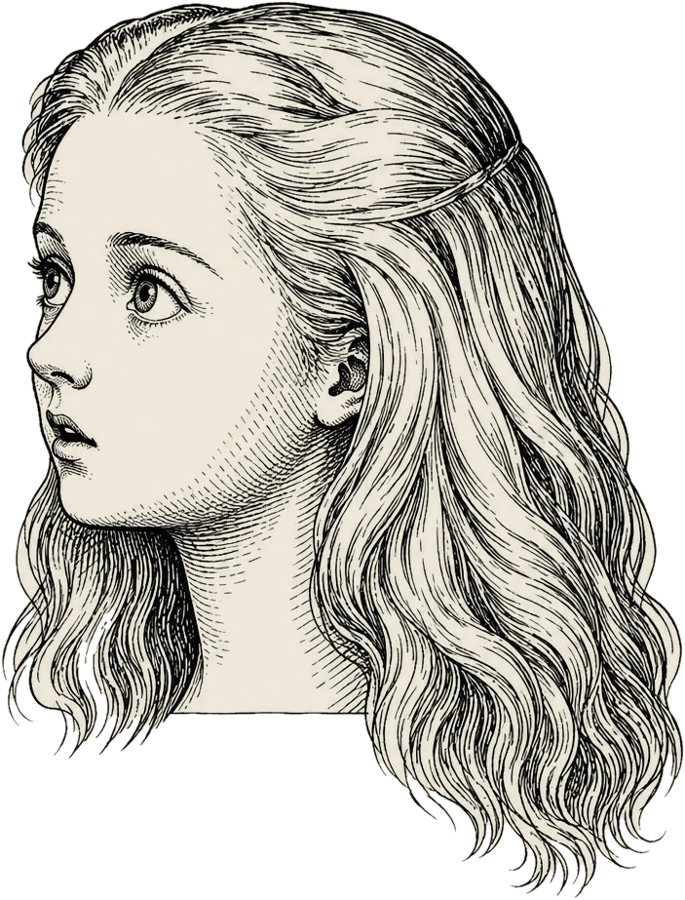
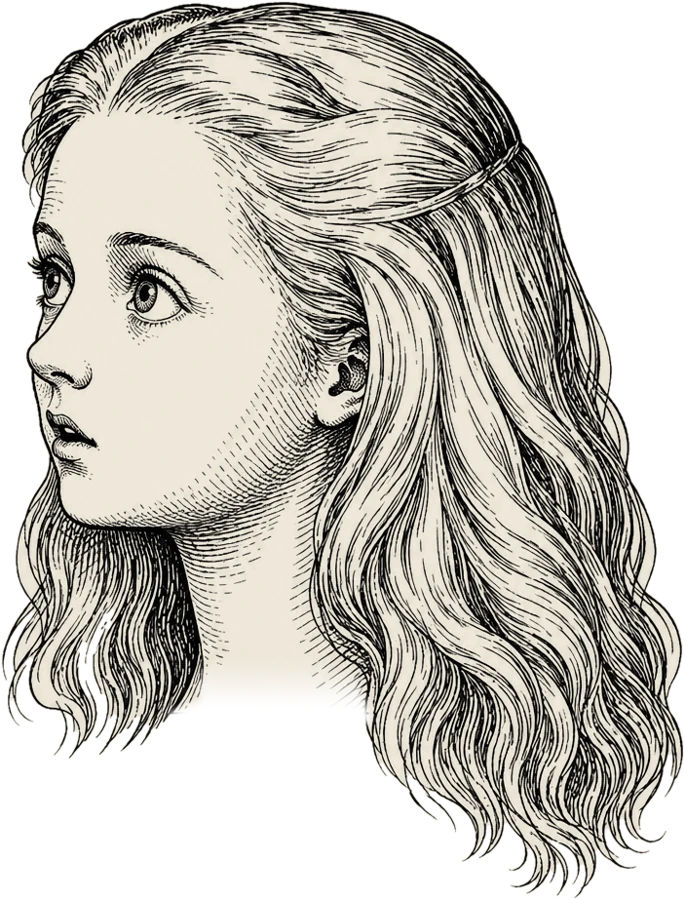
Chapter V: the long neck meets her head without a seam (owner patch note)
The paper neck is as wide as the drawn neck, runs up behind the drawing
(flattened against it so it never shows in front), and the drawing's
neck fades out above its cut edge so the two blend. The tube's paper
matches the drawing's.

Claude-Session: https://claude.ai/code/session_01RRevSCKZxgc2YUKd6jXHX7

Changed region(s): [[0.2453, 0.7467, 0.5518, 0.8089]]

diff --git a/src/scenes/caterpillar.js b/src/scenes/caterpillar.js
@@ -20,7 +20,7 @@ const MU = { x: 0, z: 0, ...MUSH };
 // An engraved cylinder's shading as a matcap (x across the tube as seen, y along it).
 function neckShade() {
   const { c, g } = canvas(256, 256);
-  g.fillStyle = '#f3eee2'; g.fillRect(0, 0, 256, 256);
+  g.fillStyle = '#eee7da'; g.fillRect(0, 0, 256, 256);   // the paper of her head drawing
   g.strokeStyle = INK;
   for (let x = 2; x < 256; x += 3) {
     const u = (x - 128) / 128, edge = Math.abs(u) + (u > 0 ? 0.12 : 0);   // a little heavier on the right
@@ -181,15 +181,38 @@ export const treetopsScene = {
     // The neck: a paper tube with an inked outline, from below the leaves to her head, shaded like an engraved
     // cylinder (a matcap: fine hatching along its length, closer towards its edges, a little heavier on the right),
     // so it reads as a neck from any angle rather than a white post (play-through, 2026-10-15).
-    const R = 0.034; // the neck's radius, matched to the neck in her head drawing
+    // Her head (AI, 2026-10-15): head and hair, surprised; the drawn neck's cut edge is at 79% of the drawing's
+    // height (21% up from its foot), 195 px of 685 wide, centred at 39.3% of its width. Above the cut the drawn
+    // neck fades out (tools/ch5_art.py), and the tube runs up behind it, as wide as the drawn neck, flattened
+    // against the drawing so it never shows in front of it: the two join without a seam (owner, 2026-10-15).
+    const HD = ai['ch5/alice5_head'], HEAD_H = 0.46, HEAD_W = HEAD_H * HD.aspect, HEAD_TURN = 0.2;
+    const NECK_U = 0.393, NECK_CUT = 0.21;
+    const R = HEAD_W * (195 / 685) / 2 / 1.085; // half the drawn neck's width, less the ink outline (0.046 m)
     const paperMat = new THREE.MeshMatcapMaterial({ matcap: texture(neckShade()) }), inkMat = new THREE.MeshBasicMaterial({ color: INK, side: THREE.BackSide });
     const neck = new THREE.Mesh(new THREE.BufferGeometry(), paperMat), outline = new THREE.Mesh(new THREE.BufferGeometry(), inkMat);
     group.add(neck, outline);
-    // Her head (AI, 2026-10-15): head and hair, surprised, with the top of the neck ending at 79% of the drawing's
-    // height, the neck's centre at 39% of its width; the tube of the neck joins it there.
-    const HD = ai['ch5/alice5_head'], HEAD_H = 0.46, HEAD_W = HEAD_H * HD.aspect;
-    const head = new THREE.Mesh(new THREE.PlaneGeometry(HEAD_W, HEAD_H), new THREE.MeshBasicMaterial({ map: HD.tex, transparent: true, alphaTest: 0.5, side: THREE.DoubleSide }));
+    const head = new THREE.Mesh(new THREE.PlaneGeometry(HEAD_W, HEAD_H), new THREE.MeshBasicMaterial({ map: HD.tex, transparent: true, alphaTest: 0.02, side: THREE.DoubleSide }));
+    head.rotation.y = HEAD_TURN;
     group.add(head);
+    const FACING = new THREE.Vector3(Math.sin(HEAD_TURN), 0, Math.cos(HEAD_TURN)); // the drawing's front
+    const SEGS = 48, SIDES = 12;
+    // Squash the tube's top towards the drawing's plane (depth only, so it looks the same from the front;
+    // its normals stay round, so the shading does too): flat from the cut up, round again 0.1 m below.
+    function flatten(geo, curve, cutY) {
+      const p = geo.attributes.position, c = new THREE.Vector3(), v = new THREE.Vector3();
+      for (let i = 0; i <= SEGS; i++) {
+        curve.getPointAt(i / SEGS, c);
+        const s = lerp(1, 0.25, smooth((c.y - cutY + 0.1) / 0.1));
+        if (s === 1) continue;
+        for (let j = 0; j <= SIDES; j++) {
+          const k = i * (SIDES + 1) + j;
+          v.fromBufferAttribute(p, k).sub(c);
+          v.addScaledVector(FACING, v.dot(FACING) * (s - 1)).add(c);
+          p.setXYZ(k, v.x, v.y, v.z);
+        }
+      }
+      p.needsUpdate = true;
+    }
 
     // Where her head is: rising, swaying, diving in a zigzag, jerking back, crouching, bobbing.
     function headAt(t) {
@@ -205,18 +228,22 @@ export const treetopsScene = {
       nestCard.visible = cast.pigeon.pose !== 'nest'; // the nesting drawing brings its own nest
       const h = headAt(t);
       const zig = smooth((t - T.serpent + 1) / 6) * (1 - smooth((t - T.hiss) / 0.5)) + 0.6 * smooth((t - T.crouched) / 3);
+      // The drawing's cut edge sits at h.y - 0.08; the neck's centre there (N), on the drawing's plane.
+      head.position.set(h.x + (0.5 - NECK_U) * HEAD_W, h.y - 0.08 + HEAD_H / 2 - NECK_CUT * HEAD_H, h.z + 0.01);
+      const N = new THREE.Vector3((NECK_U - 0.5) * HEAD_W, 0, 0).applyAxisAngle(THREE.Object3D.DEFAULT_UP, HEAD_TURN);
+      N.add(head.position).setY(h.y - 0.08);
+      const top = N.clone().addScaledVector(FACING, -0.016); // just behind the drawing
       const pts = [new THREE.Vector3(0, -0.3, 0)];
       for (let i = 1; i <= 6; i++) {
         const k = i / 7;
-        pts.push(new THREE.Vector3(lerp(0, h.x, k) + Math.sin(i * 2.1) * 0.25 * zig, lerp(-0.3, h.y - 0.05, k), lerp(0, h.z, k) + Math.cos(i * 1.7) * 0.15 * zig));
+        pts.push(new THREE.Vector3(lerp(0, top.x, k) + Math.sin(i * 2.1) * 0.25 * zig, lerp(-0.3, top.y - 0.12, k), lerp(0, top.z, k) + Math.cos(i * 1.7) * 0.15 * zig));
       }
-      pts.push(new THREE.Vector3(h.x, h.y - 0.05, h.z - 0.005)); // its open top tucked up behind the drawing's neck
+      pts.push(top.clone().setY(top.y - 0.05), top.clone().setY(top.y + 0.045)); // straight up into the drawn neck, its open top hidden behind it
       const curve = new THREE.CatmullRomCurve3(pts);
       neck.geometry.dispose(); outline.geometry.dispose();
-      neck.geometry = new THREE.TubeGeometry(curve, 48, R, 10, false);
-      outline.geometry = new THREE.TubeGeometry(curve, 48, R * 1.18, 10, false);
-      head.position.set(h.x + (0.5 - 0.39) * HEAD_W, h.y - 0.08 + HEAD_H / 2 - 0.21 * HEAD_H, h.z + 0.01); // her neck in the drawing meets the tube's top (h.y - 0.1)
-      head.rotation.y = 0.2;
+      neck.geometry = new THREE.TubeGeometry(curve, SEGS, R, SIDES, false);
+      outline.geometry = new THREE.TubeGeometry(curve, SEGS, R * 1.085, SIDES, false);
+      flatten(neck.geometry, curve, N.y); flatten(outline.geometry, curve, N.y);
       // The shaking leaves where her hands are.
       leaves.position.y = t >= T.hands && t < T.hands + 8 ? Math.sin(t * 25) * 0.003 : 0;
       think(t, { x: h.x - 0.35, y: h.y + 0.15, z: h.z }, 0.35);

diff --git a/tools/ch5_art.py b/tools/ch5_art.py
@@ -8,6 +8,10 @@
 - caterpillar_speak, _rear, _yawn, _crawl (2026-10-14): drawn without the hookah, coloured blue all over;
   hookah: the hookah alone, uncoloured.
 
+- alice5_head: her head on the long neck (2026-10-15). The bottom of the drawn neck fades out above its
+  cut edge (NECK_FADE), so the scene's tube of a neck shows through and the two join without a seam
+  (owner's patch note, 2026-10-15).
+
 Usage: python3 tools/ch5_art.py   -> public/art/ai/ch5/*.webp
 Requires Pillow, NumPy and SciPy.
 """
@@ -28,6 +32,12 @@ KEEP = [(0, 0), (1024, 0), (1024, 955), (925, 955), (905, 975), (735, 975), (700
 # His body and arms (the hookah to the right of it stays uncoloured).
 BODY = [(330, 120), (440, 40), (560, 120), (620, 330), (690, 560), (700, 760), (690, 960), (640, 1060),
         (420, 1095), (260, 1075), (170, 980), (160, 820), (250, 600), (330, 400)]
+# alice5_head, in the saved drawing's pixels (685x900): the drawn neck between her hair, down to its cut
+# edge at y 713 (x 170-368: 39.3% of the width is its centre, NECK_U in scenes/caterpillar.js). Inside
+# it the drawing fades out from y 655 to the cut, ink line and all; the hair either side stays.
+NECK_COLUMN = [(200, 600), (200, 700), (170, 712), (168, 722), (370, 722), (368, 712), (357, 680), (330, 647),
+               (313, 613), (308, 600)]
+NECK_FADE = (655, 713)
 
 
 def mask(poly, size, blur=2):
@@ -75,6 +85,13 @@ def main():
         print(f"{n}: px {cut.height} aspect {cut.width / cut.height:.3f}")
         img = Image.fromarray(a.astype(np.uint8), "RGBA")
         img.thumbnail((900, 900))
+        if n == "alice5_head":
+            b = np.asarray(img, np.float32).copy()
+            y0, y1 = NECK_FADE
+            k = np.clip((np.arange(b.shape[0], dtype=np.float32) - y0) / (y1 - y0), 0, 1)
+            fade = (k * k * (3 - 2 * k))[:, None]
+            b[..., 3] *= 1 - mask(NECK_COLUMN, img.size, 3) * fade
+            img = Image.fromarray(b.astype(np.uint8), "RGBA")
         img.save(f"{OUT}/{n}.webp", quality=90, method=6)
 
 

diff --git a/PROVENANCE.md b/PROVENANCE.md
@@ -148,7 +148,7 @@ Every shipped asset is listed here with its source. AI-generated or AI-modified 
 | ai_ch4_characters | `public/art/ai/ch4/bill_stand.webp`, `bill_ladder`, `bill_climb`, `bill_rocket`, `bill_limp`, `guinea_stand`, `guinea_hold`, `guinea_bottle`, `pat`, `pat_cap`, `puppy_look`, `puppy_jump`, `puppy_tumble`, `puppy_sit` | AI | Chapter IV prompts (Bill, the guinea-pigs, Pat, the puppy); originals in `source/ai/` under the same names. Bill after Tenniel's plate 4.3 (`source/plates/tenniel_w04-3_bill_only.png`), the puppy after plate 4.4 (`source/plates/tenniel_w04-4_puppy_only.png`), both from victorianweb.org; the guinea-pig drawn in Bill's style; Pat from the guinea-pig (smock, cap, spade: the book doesn't say what animal he is); every later pose from that character's first picture. Owner chose Bill version A, looking at us (`bill_stand.png`; `bill_stand_alt.png` unused; the later poses were drawn from the other version and match it closely). | OpenAI gpt-image-2.5-sunburst via the API (generated by Claude Code, 2026-10-14) | Whole images generated. Cut out and paper-tinted with `tools/ch4_art.py` (the gaps between the ladder's rungs cleared). Used in Chapter IV and the Chapter XII dream. | 2026-10-14 | Owner (approved first pictures), Claude Code (generated, processed) |
 | ai_rabbit_house | `public/art/ai/ch4/rabbit_house.webp`, `rabbit_room_back`, `rabbit_room_door`, `rabbit_room_fire`, `cucumber_frames`, `cucumber_frames_broken`, `alice_lying`, `alice_forearm` | AI | The Rabbit's house as the book describes it (owner, 2026-10-14): `source/ai/rabbit_house.png` (the front; the frames drawn in it, `rabbit_house_with_frames.png`, were redrawn out and patched in so the frames can be their own drawings), the room's three walls, the cucumber-frames whole and smashed; `source/ai/alice4_giant_lying.png`, giant Alice after Tenniel's plate 4.1 (`source/plates/tenniel_w04-1_giant_room.png`) and the model sheet, so her arm reaches out of the window as the owner asked; `alice_forearm` is the forearm and hand of `alice_hand` without the sleeve. | OpenAI gpt-image-2.5-sunburst via the API (generated by Claude Code, 2026-10-14) | Whole images generated. Cut out with `tools/ch4_art.py` (the front cut at its ground line; the walls opaque, the side walls cropped to the room's depth). Used in Chapter IV (and the house far off in the lane). | 2026-10-14 | Owner (asked), Claude Code (generated, processed) |
 | ai_alice_7_12_poses | `public/art/ai/poses/chair7.webp`, `lean7`, `tea7`, `walkoff7`, `treedoor`, `unlock7`, `garden7`, `procession`, `nonsense`, `flowerpot`, `flamingo8`, `swing8`, `laugh8`, `armin`, `chin`, `follow9`, `shore`, `sink`, `dance10`, `tell`, `recite10`, `face`, `run10`, `court11`, `pencil`, `bench`, `named`, `jumpup`, `pickup`, `defiant`, `cards`, `runhome` | AI | Chapter VII-XII Alice prompts; originals `source/ai/alice7_*.png` ... `alice12_*.png`, from the model sheet `source/ai/alice_turnaround.webp`, with Tenniel's plates cropped to Alice where the prompt names one (`source/plates/tenniel_w07-1_alice_only.png`, `w08-2`, `w08-3_alice_flamingo`, `w09-1`, `w09-3`, `w12-1`, `w12-3`), the flamingo poses also from `source/ai/flamingo_stand.png`. The filter refused the first wording of two (telling her story, taking the pencil); they were redrawn from her own earlier drawing. | OpenAI gpt-image-2.5-sunburst via the API (generated by Claude Code, 2026-10-14/15) | Whole images generated. Cut out, paper-tinted and scaled to the standing Alice with `tools/compose_poses.py`. Used in Chapters VII-XII (tea7, unlock7, chin, flowerpot not yet placed: they carry a chair, a door, no flamingo, a pot that clash with the sets). | 2026-10-15 | Owner (approved plan), Claude Code (generated, processed) |
-| ai_alice_head_foot | `public/art/ai/ch5/alice5_head.webp`, `public/art/ai/ch4/alice_foot.webp` | AI | Chapter V prompt 8 (her head on the immense neck) and Chapter IV prompt 6 (her foot up the chimney); originals `source/ai/alice5_head.png` (from the model sheet), `source/ai/alice4_foot.png` (from the room's fireplace wall; the first wording was refused by the filter, a second came out with the leg coming down the chimney and was dropped). | OpenAI gpt-image-2.5-sunburst via the API (generated by Claude Code, 2026-10-15) | Whole images generated. Cut out with `tools/ch5_art.py` and `tools/ch4_art.py`. The head sits on the game's paper neck; the foot drawing stands over the fire wall during the kick. | 2026-10-15 | Claude Code (generated, processed) |
+| ai_alice_head_foot | `public/art/ai/ch5/alice5_head.webp`, `public/art/ai/ch4/alice_foot.webp` | AI | Chapter V prompt 8 (her head on the immense neck) and Chapter IV prompt 6 (her foot up the chimney); originals `source/ai/alice5_head.png` (from the model sheet), `source/ai/alice4_foot.png` (from the room's fireplace wall; the first wording was refused by the filter, a second came out with the leg coming down the chimney and was dropped). | OpenAI gpt-image-2.5-sunburst via the API (generated by Claude Code, 2026-10-15) | Whole images generated. Cut out with `tools/ch5_art.py` and `tools/ch4_art.py`. The head sits on the game's paper neck (2026-10-15, owner's patch note: the drawn neck fades out above its cut edge so the paper neck, made as wide as it, joins it without a seam); the foot drawing stands over the fire wall during the kick. | 2026-10-15 | Claude Code (generated, processed) |
 | ai_pigeon | `public/art/ai/ch5/pigeon_attack.webp`, `pigeon_scream`, `pigeon_nest` | AI | Chapter V Pigeon prompts; originals `source/ai/pigeon_attack.png` (version A; `pigeon_attack_alt.png` unused), `pigeon_scream.png`, `pigeon_nest.png`. Tenniel never drew the Pigeon: drawn as a real wood-pigeon from the text, no reference (a first try with the Eaglet as a style reference came out hawk-like and was dropped); the later poses from the first picture. | OpenAI gpt-image-2.5-sunburst via the API (generated by Claude Code, 2026-10-14) | Whole images generated. Cut out and paper-tinted with `tools/creatures_art.py`. Used in Chapter V (the nesting drawing replaces the code-drawn nest while she sits on it). | 2026-10-14 | Owner, Claude Code (generated, processed) |
 | ai_ch3_creatures | `public/art/ai/ch3/owl3.webp`, `magpie3`, `magpie3_shawl`, `canary3`, `canary3_chicks`, `crab`, `crabling` | AI | Chapter III prompts 21-24; originals `source/ai/owl3.png`, `magpie3.png`, `magpie3_shawl.png`, `canary3.png`, `canary3_chicks.png`, `crabs3.png` (the Crab and her daughter, split in two by `tools/creatures_art.py`). The Owl and the crabs after Tenniel's plate 3.1 cropped to them (`source/plates/tenniel_w03-1_owl_only.png`, `tenniel_w03-1_crabs_only.png`; plates 2.1-2.4, 3.1, 3.2 from victorianweb.org in `source/plates/`); the Magpie and the Canary drawn as the real birds (Tenniel shows them only indistinctly); later poses from the first pictures. | OpenAI gpt-image-2.5-sunburst via the API (generated by Claude Code, 2026-10-14) | Whole images generated. Cut out and paper-tinted with `tools/creatures_art.py`. Used in Chapter III, and on the jury in XI and XII. | 2026-10-14 | Owner (approved), Claude Code (generated, processed) |
 | ai_rabbit_model | `public/art/ai/ch2/rabbit2_trot.webp`, `rabbit2_start`, `rabbit2_away`; `ch4/rabbit4_search`, `rabbit4_point`, `rabbit4_frame`, `rabbit4_order`; `ch8/rabbit8_peep`, `rabbit8_tiptoe`; `ch11/rabbit_herald`, `rabbit_trumpet`, `rabbit_scroll`, `rabbit_specs` | AI | The owner's rule (2026-10-14): the Chapter I White Rabbit (`source/ai/rabbit_sheet.webp`) is the model in every scene. Each pose drawn from that sheet; the Chapter II poses also from the earlier Chapter II drawings for the pose (these replace them; the same file names in `source/ai/` now hold the new drawings as .png, the old .webp kept); the herald poses also from Tenniel's plate 11.1 (`source/plates/tenniel_w11-1_rabbit_herald_victorianweb.jpg`) for the tabard and ruff. The spectacles prompt was refused once by the safety filter, then went through on a retry. | OpenAI gpt-image-2.5-sunburst via the API (generated by Claude Code, 2026-10-14) | Whole images generated. Cut out, made white (not paper) and given his pink eye with `tools/rabbit_art.py`. Used in Chapters II, IV, VIII, XI, XII (the Tenniel engraving 'watch' pose is no longer used). | 2026-10-14 | Owner (rule), Claude Code (generated, processed) |

diff --git a/docs/HANDOFF.md b/docs/HANDOFF.md
@@ -39,6 +39,7 @@ Updated: 2026-10-15, end of session 4 (all 371 images on the master list made an
   - **Thought vignettes and the last props, 2026-10-15** (`tools/vignettes_art.py`): 30 thought vignettes (Chapter I's Antipodes, Dinah down the well and the dream are new thoughts in the fall; the rest replace the code-drawn ones; the soup green, the Lobster brown), and the comfits, thimble, the Hatter's watch, the court papers (note-book, verses, inkstand), dead leaves, the tipped jury-box (shown once the box has gone over), and a Chapter I tailpiece (on the chapter's end card under its last line, owner 2026-10-15; `TAILPIECES` in chapters.js; shown light on the dark card).
   - **Play-through fixes, 2026-10-15** (30 screenshots of every chapter reviewed): the outdoor ground (lane, wood, mushroom, Duchess's house and wood, tea party, garden, Gryphon) is now the riverbank's AI meadow at its real size (1.6 m a tile), the Queen's garden an AI clipped lawn (`outdoors(group, ai, { ground })` in rabbit.js; the code-drawn ground tile is gone); the kitchen and the Rabbit's room have the court's engraved flagstones (and the room the hall's ceiling); the long neck in Chapter V is shaded like an engraved cylinder (a matcap) and joins her drawn neck; the hall has a front wall facing in (one-sided), so shots down the hall no longer see past it; the Gryphon's bank is wide enough that its ends never show; the herald and King shots in XI-XII no longer have a guard filling the frame; in Explore, the seashore's sides now carry the far sea (out to the shore) and the sunny bank's dunes (beyond it), so the coast runs on instead of ending at a wall of sky (explore_edges checked VII-XI).
   - **Patch note (owner, 2026-10-15): Alice walked through the glass table at 6:27 in Chapter I.** The table stays where it is; her walks now curve round its near side on an arc (`routeAround()`/`detour()` in hall.js, `CLEAR` = table radius + 0.6 m), at a walking pace (she reaches it as "a tiny golden key" is read), and the two shots of those walks are taken from above and in front so the whole path is seen. No walk comes nearer than her standing place beside it.
+  - **Patch note (owner, 2026-10-15): in "A sea of green leaves" (Chapter V, 7:08-12:00) her head and the long neck didn't line up.** The paper neck is now as wide as the drawn neck (195 of 685 px, centred at 39.3%: `NECK_U` in caterpillar.js), the drawing's neck fades out over its last ~60 px above the cut (`NECK_COLUMN`, `NECK_FADE` in tools/ch5_art.py; the hair either side stays), and the tube runs straight up behind the drawing into the fade, flattened against the drawing's plane (`flatten()`) so it never pokes out in front of it; the tube's paper is the drawing's paper colour. The head material blends (alphaTest 0.02) so the fade shows.
   - Characters: all done 2026-10-15 (the remaining list is props, sets, backgrounds and thought vignettes). **Next: prompt the owner about structures and backgrounds** (owner's request). Previously listed: the jurors (XI: twelve on slates; the jury-box already uses the AI drawings of the Dodo, Duck, Lory, Bill, Eaglet, Owl, Magpie, Canary, Crab and guinea-pig; the Mouse is still a code drawing), the court crowd, and Alice's poses for VII–XII.
 - **The White Rabbit (owner, 2026-10-14): the Chapter I model (`source/ai/rabbit_sheet.webp`) is the standard in every scene.** Every pose after Chapter I is drawn from that sheet (`tools/rabbit_art.py`: cut out, white, pink eye; one scale `RB` in main.js): II trotting with gloves and fan, starting, scurrying away; IV looking about, pointing, into the cucumber-frame, giving orders; VIII peeping up at Alice, on tiptoe; XI-XII the herald (after plate 11.1: tabard, ruff), the trumpet, the scroll, reading the paper in spectacles. The old Tenniel 'watch' engraving pose is no longer used anywhere. Any new Rabbit pose: attach the sheet.
 - **Alice's walk**: two matching steps from one drawing (`alice_walk_pair`); keep it. **Do not generate the walk cycle** (owner, 2026-10-13: the owner will make it later; the API attempts got the arms and legs wrong).
@@ -65,7 +66,7 @@ Updated: 2026-10-15, end of session 4 (all 371 images on the master list made an
 - The Tenniel plates are all on Project Gutenberg ebook 114 (*The Tenniel Illustrations*), `https://www.gutenberg.org/files/114/114-h/images/aliceNNa.gif` (01 = the trial frontispiece, kept as `source/plates/tenniel_frontispiece_trial_gutenberg.png`; small images). Ebook 28885 is Arthur Rackham's 1907 edition, not Tenniel: don't use it. commons.wikimedia.org stays blocked.
 
 ## Next steps, in order
-1. **Work through the owner's patch notes** as they come (the first, 2026-10-15: Alice walking through the glass table, fixed). For each: find the moment (`node tools/chapter_shots.mjs URL OUT chapter t1,t2`), fix, check with screenshots, `frame_report.mjs` and `jerk_report.mjs` for that chapter, run the smoke test, commit, push, republish, and tell the owner briefly.
+1. **Work through the owner's patch notes** as they come (2026-10-15: Alice walking through the glass table; the long neck meeting her head; both fixed). For each: find the moment (`node tools/chapter_shots.mjs URL OUT chapter t1,t2`), fix, check with screenshots, `frame_report.mjs` and `jerk_report.mjs` for that chapter, run the smoke test, commit, push, republish, and tell the owner briefly.
 2. Keep Alice in the picture at least every 10–15 s when anything moves (`tools/frame_report.mjs`; compose new shots with `tools/shot_check.mjs` before trying them).
 3. Regeneration list (owner: "later"): `alice3_wonder` (should look down at the tail), optional closer `alice3_ring` (from behind) and `alice3_bow` (facing right, taking the thimble).
 4. Later (owner's decision): the walk cycle (the owner makes it), low-end hardware test, code signing, high-resolution Tenniel scans.
